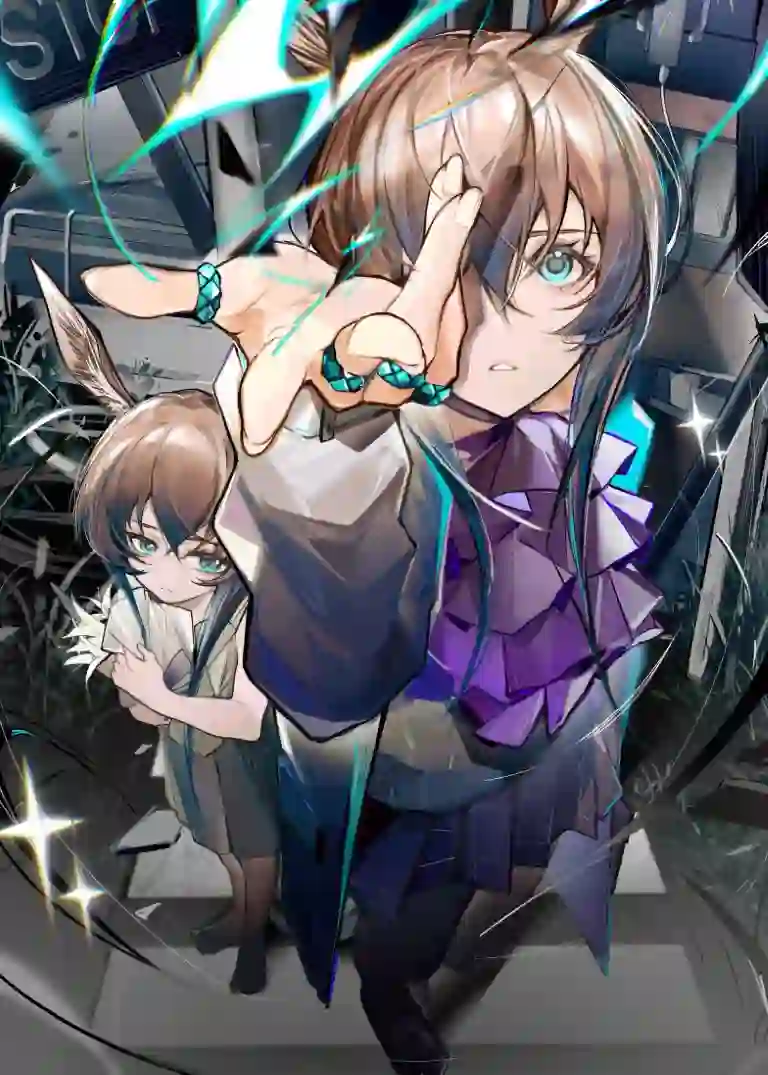
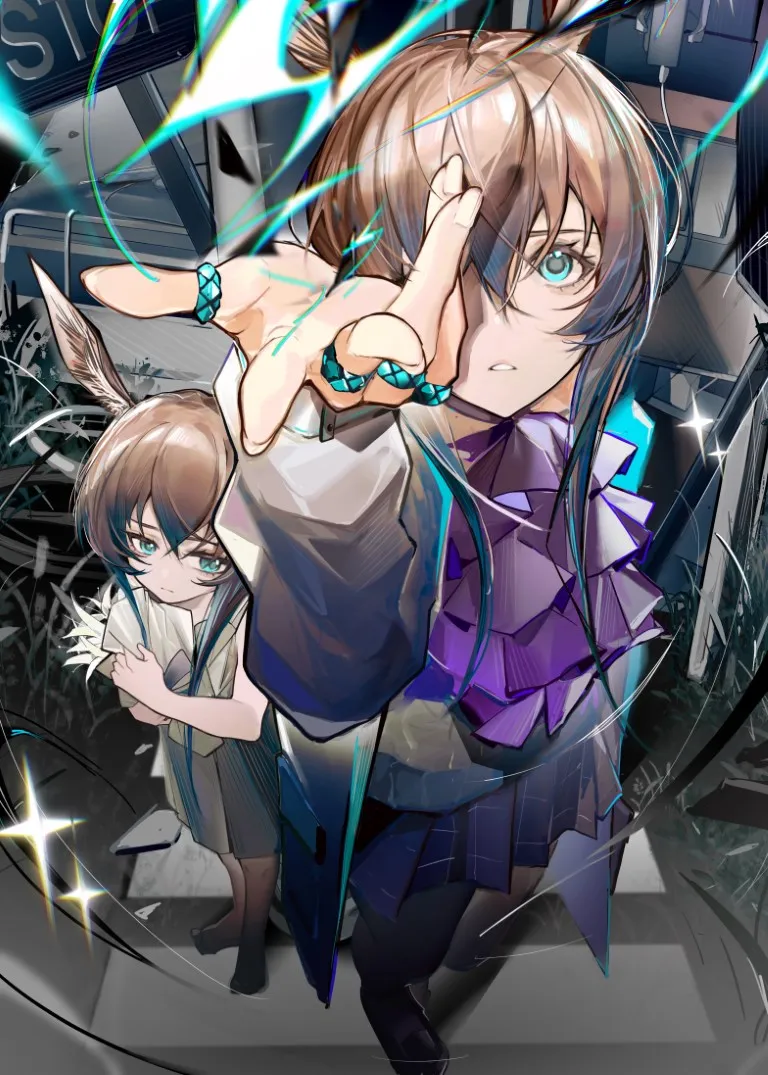
update hero

diff --git a/docs/.vuepress/components/MyBlogHero.vue b/docs/.vuepress/components/MyBlogHero.vue
@@ -17,11 +17,17 @@ const windowSize = ref<{ width: number, height: number }>({
     height: 0
 })
 
-const endHeight = windowSize.value.width > 768 ? '350px' : '240px'
+const endHeight = windowSize.value.width > windowSize.value.height ? '350px' : '240px'
+
+// Set default backgroundImage for PC
+const backgroundImage = ref("/hero-pc.webp")
 
 const handleResize = (): void => {
     windowSize.value.width = window.innerWidth
     windowSize.value.height = window.innerHeight
+
+    // Change backgroundImage based on the aspect ratio
+    backgroundImage.value = windowSize.value.width > windowSize.value.height ? "/hero-pc.webp" : "/hero-mo.webp"
 }
 
 const handleScroll = (): void => {
@@ -83,7 +89,7 @@ onBeforeUnmount(() => {
 </script>
 
 <template>
-    <div class="blog-hero" :style="{ height: heroHeight }">
+    <div class="blog-hero" :style="{ height: heroHeight, backgroundImage: `url(${backgroundImage})` }">
         <div class="mask"></div>
         <img class="hero-image hero-image-pc" src="/aneot.svg" alt="hero image"
             :style="`filter: drop-shadow(` + themeColor + ` 0 0 6px);`">
@@ -111,14 +117,15 @@ onBeforeUnmount(() => {
     display: flex;
     flex-direction: column;
     justify-content: space-between;
-    // height: calc(100vh - var(--navbar-height));
     width: 100%;
     margin-bottom: 1rem;
-    background-image: url("/hero.webp"); //背景图，存放在docs/.vuepress/public
     background-position: center center;
     background-repeat: no-repeat;
     background-size: cover;
     transition: height 1s ease;
+
+    /* Set default background-image for PC */
+    background-image: url("/hero-pc.webp");
 
 }
 
@@ -185,8 +192,8 @@ onBeforeUnmount(() => {
     transform: rotateX(180deg);
 }
 
-/* mobile */
-@media all and (max-width: 768px) {
+/* Mobile */
+@media all and (max-aspect-ratio: 1/1) {
     .hero-image-pc {
         display: none;
     }
@@ -197,7 +204,7 @@ onBeforeUnmount(() => {
 }
 
 /* PC */
-@media all and (min-width: 769px) {
+@media all and (min-aspect-ratio: 1/1) {
     .hero-image-mobile {
         display: none;
     }

diff --git a/docs/README.md b/docs/README.md
@@ -6,9 +6,9 @@ title: 主页
 heroText: 回归线
 heroFullScreen: false
 # 在这里修改抬头画师
-tagline: © 迷迭香
+tagline: © 2023 猛男环游世界
 # 在这里修改版头主题色
-heroAlt: '#79a5c8'
+heroAlt: '#46f9fa'
 projects:
   - icon: read
     name: 卷首
